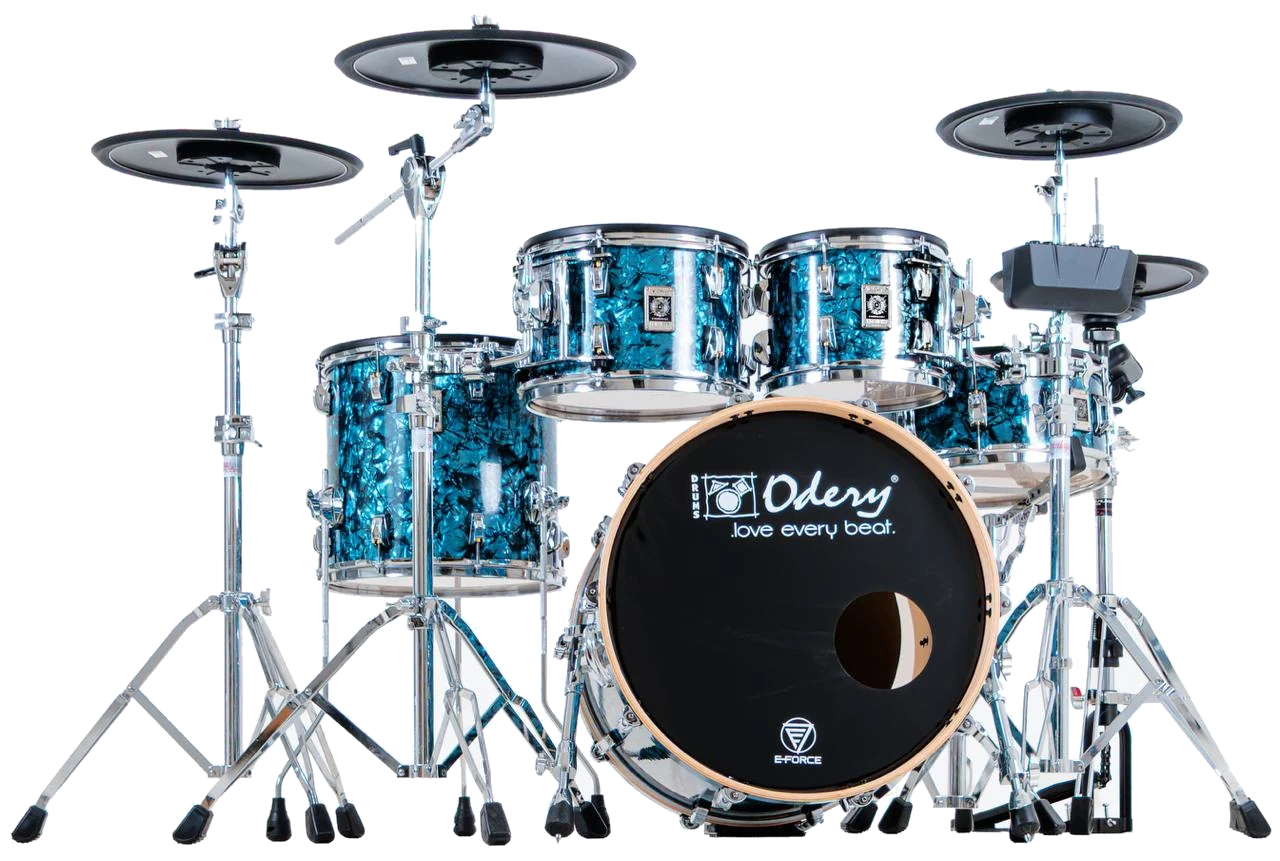
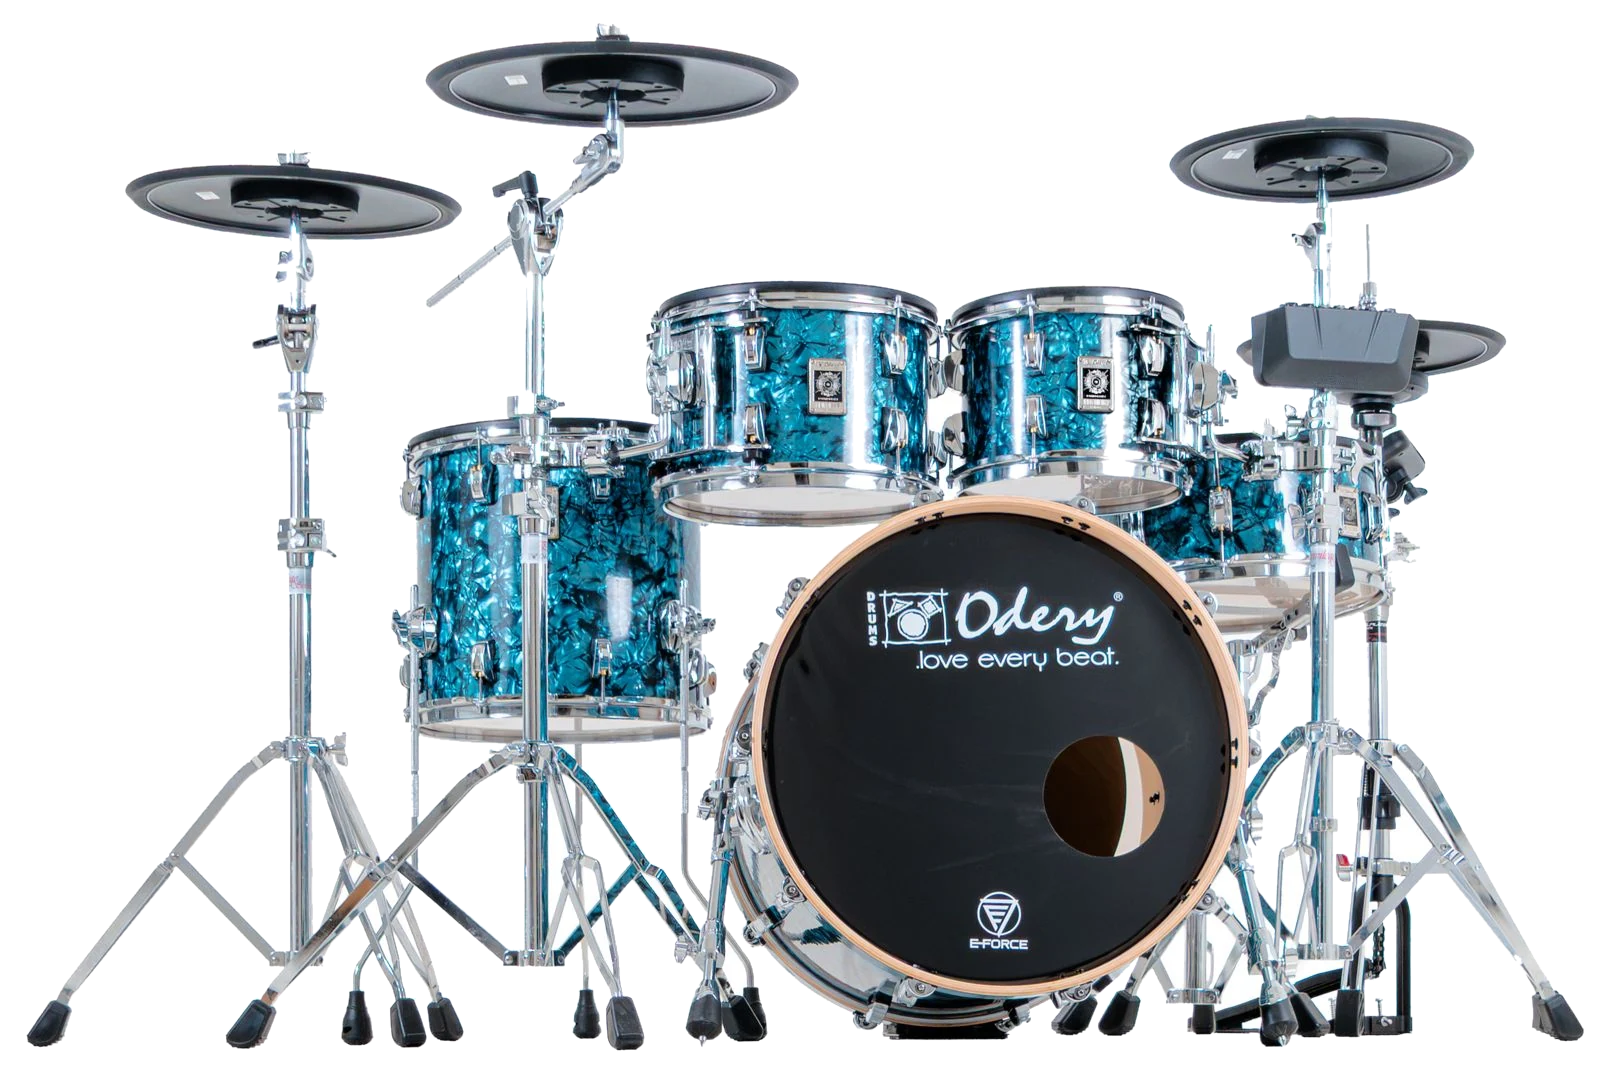
feat: vídeo da EF7, heros novos e bateria maior na configuração (#9)
- Seção de vídeo da EF7 com o HCiaGpVNfi8, o vídeo atualizado com
  legenda em inglês. O tutorial do módulo F50 segue na página de
  suporte e no pop-up do menu lateral
- Hero da EF7 e hero da EF5 V2 com fotos novas, as duas recortadas do
  fundo branco
- Bateria da Configuração do Kit 15% maior, como o Mauricio pediu

Changed region(s): [[0.0, 0.0, 1.0, 0.9965], [0.6875, 0.7851, 0.7188, 0.8153]]

diff --git a/eforce-site/src/pages/ProductDetailPage.tsx b/eforce-site/src/pages/ProductDetailPage.tsx
@@ -1092,7 +1092,7 @@ export default function ProductDetailPage() {
           {(product.fullKitImage || product.galleryImages.length > 0) && (
           <section style={{ background: "#ffffff", padding: "clamp(1rem, 3vh, 2.5rem) 0 clamp(1rem, 3vh, 2.5rem) clamp(1.5rem, 6vw, 6rem)", display: "flex", justifyContent: "center", overflow: "hidden" }}>
             {product.kitConfig ? (
-              <AnimatedSection style={{ width: "100%", display: "flex", flexDirection: isMobile ? "column" : "row", alignItems: isMobile ? "flex-start" : (product.slug === "ef5-v2" ? "flex-start" : "center"), gap: "clamp(1.5rem, 4vw, 4rem)", marginRight: isMobile || product.slug === "ef7-eye-hybrid" ? 0 : "-2%", justifyContent: isMobile ? undefined : (product.slug === "ef2-v4" ? "center" : undefined) }}>
+              <AnimatedSection style={{ width: "100%", display: "flex", flexDirection: isMobile ? "column" : "row", alignItems: isMobile ? "flex-start" : (product.slug === "ef5-v2" ? "flex-start" : "center"), gap: product.slug === "ef7-eye-hybrid" ? "clamp(1rem, 2vw, 2rem)" : "clamp(1.5rem, 4vw, 4rem)", marginRight: isMobile || product.slug === "ef7-eye-hybrid" ? 0 : "-2%", justifyContent: isMobile ? undefined : (product.slug === "ef2-v4" ? "center" : undefined) }}>
                 <div style={{ flexShrink: 0, paddingLeft: "clamp(1rem, 3vw, 3rem)", paddingTop: product.slug === "ef5-v2" ? "clamp(3rem, 8vh, 7rem)" : undefined, minWidth: 0, width: isMobile ? "100%" : undefined, maxWidth: product.slug === "ef2-v1" ? "680px" : product.slug === "ef5-v2" ? "780px" : "600px" }}>
                   <h3 style={{ fontSize: "clamp(1rem, 1.2vw, 1.25rem)", fontWeight: 900, letterSpacing: "0.12em", textTransform: "uppercase", color: "#333", marginBottom: "1.4rem", whiteSpace: "nowrap" }}>{t('product.kitConfiguration')}</h3>
                   <ul style={{ listStyle: "none", padding: 0, margin: 0, display: "flex", flexDirection: "column", gap: "0.65rem" }}>
@@ -1124,7 +1124,7 @@ export default function ProductDetailPage() {
                 <img
                   src={product.fullKitImage || product.galleryImages[0]}
                   alt={`${product.name} full angle`}
-                  style={{ marginLeft: isMobile ? 0 : (product.slug === "ef2-v1" ? "clamp(1rem, 3vw, 3rem)" : product.slug === "ef2-v3" || product.slug === "ef2-v2" ? "clamp(2rem, 5vw, 5rem)" : product.slug === "ef2-v4" ? "clamp(1.5rem, 3vw, 3rem)" : product.slug === "ef5-v2" ? "calc(-1 * clamp(4rem, 12vw, 16rem))" : product.slug === "ef7-eye-hybrid" ? 0 : "auto"), width: isMobile ? "100%" : (product.slug === "ef2-v1" ? "46%" : product.slug === "ef2-v2" ? "55%" : product.slug === "ef2-v3" ? "50%" : product.slug === "ef2-v4" ? "56%" : product.slug === "ef5-v2" ? "61%" : product.slug === "ef7-eye-hybrid" ? "55%" : "68%"), maxWidth: isMobile ? "100%" : (product.slug === "ef2-v1" ? "790px" : product.slug === "ef2-v2" ? "942px" : product.slug === "ef2-v3" ? "858px" : product.slug === "ef2-v4" ? "958px" : product.slug === "ef5-v2" ? "1047px" : product.slug === "ef7-eye-hybrid" ? "760px" : "1163px"), display: "block", objectFit: "contain" }}
+                  style={{ marginLeft: isMobile ? 0 : (product.slug === "ef2-v1" ? "clamp(1rem, 3vw, 3rem)" : product.slug === "ef2-v3" || product.slug === "ef2-v2" ? "clamp(2rem, 5vw, 5rem)" : product.slug === "ef2-v4" ? "clamp(1.5rem, 3vw, 3rem)" : product.slug === "ef5-v2" ? "calc(-1 * clamp(4rem, 12vw, 16rem))" : product.slug === "ef7-eye-hybrid" ? 0 : "auto"), width: isMobile ? "100%" : (product.slug === "ef2-v1" ? "46%" : product.slug === "ef2-v2" ? "55%" : product.slug === "ef2-v3" ? "50%" : product.slug === "ef2-v4" ? "56%" : product.slug === "ef5-v2" ? "61%" : product.slug === "ef7-eye-hybrid" ? "63%" : "68%"), maxWidth: isMobile ? "100%" : (product.slug === "ef2-v1" ? "790px" : product.slug === "ef2-v2" ? "942px" : product.slug === "ef2-v3" ? "858px" : product.slug === "ef2-v4" ? "958px" : product.slug === "ef5-v2" ? "1047px" : product.slug === "ef7-eye-hybrid" ? "865px" : "1163px"), display: "block", objectFit: "contain" }}
                 />
               </AnimatedSection>
             ) : (
@@ -1145,15 +1145,14 @@ export default function ProductDetailPage() {
           )}
 
         {/* Video antes dos destaques */}
-        {(["ef5-v2", "ef2-v1", "ef2-v2", "ef2-v3", "ef2-v4"] as const).includes(product.slug as any) && (() => {
+        {(["ef5-v2", "ef2-v1", "ef2-v2", "ef2-v3", "ef2-v4", "ef7-eye-hybrid"] as const).includes(product.slug as any) && (() => {
           const videoIds: Record<string, string> = {
             "ef5-v2": "uKXTqqVa-DA",
             "ef2-v1": "Jux50AKrrJw",
             "ef2-v2": "rXeNjRfy7vU",
             "ef2-v3": "YGQdWYZ_d70",
             "ef2-v4": "sk32_ptcBig",
-            // A EF7 entra aqui quando o v\u00eddeo dela ficar pronto; at\u00e9 l\u00e1 a se\u00e7\u00e3o
-            // n\u00e3o aparece, para n\u00e3o exibir o v\u00eddeo de outro modelo.
+            "ef7-eye-hybrid": "HCiaGpVNfi8",
           };
           return (
             <section style={{ background: "#000", padding: "clamp(2rem, 5vh, 4rem) 0" }}>
